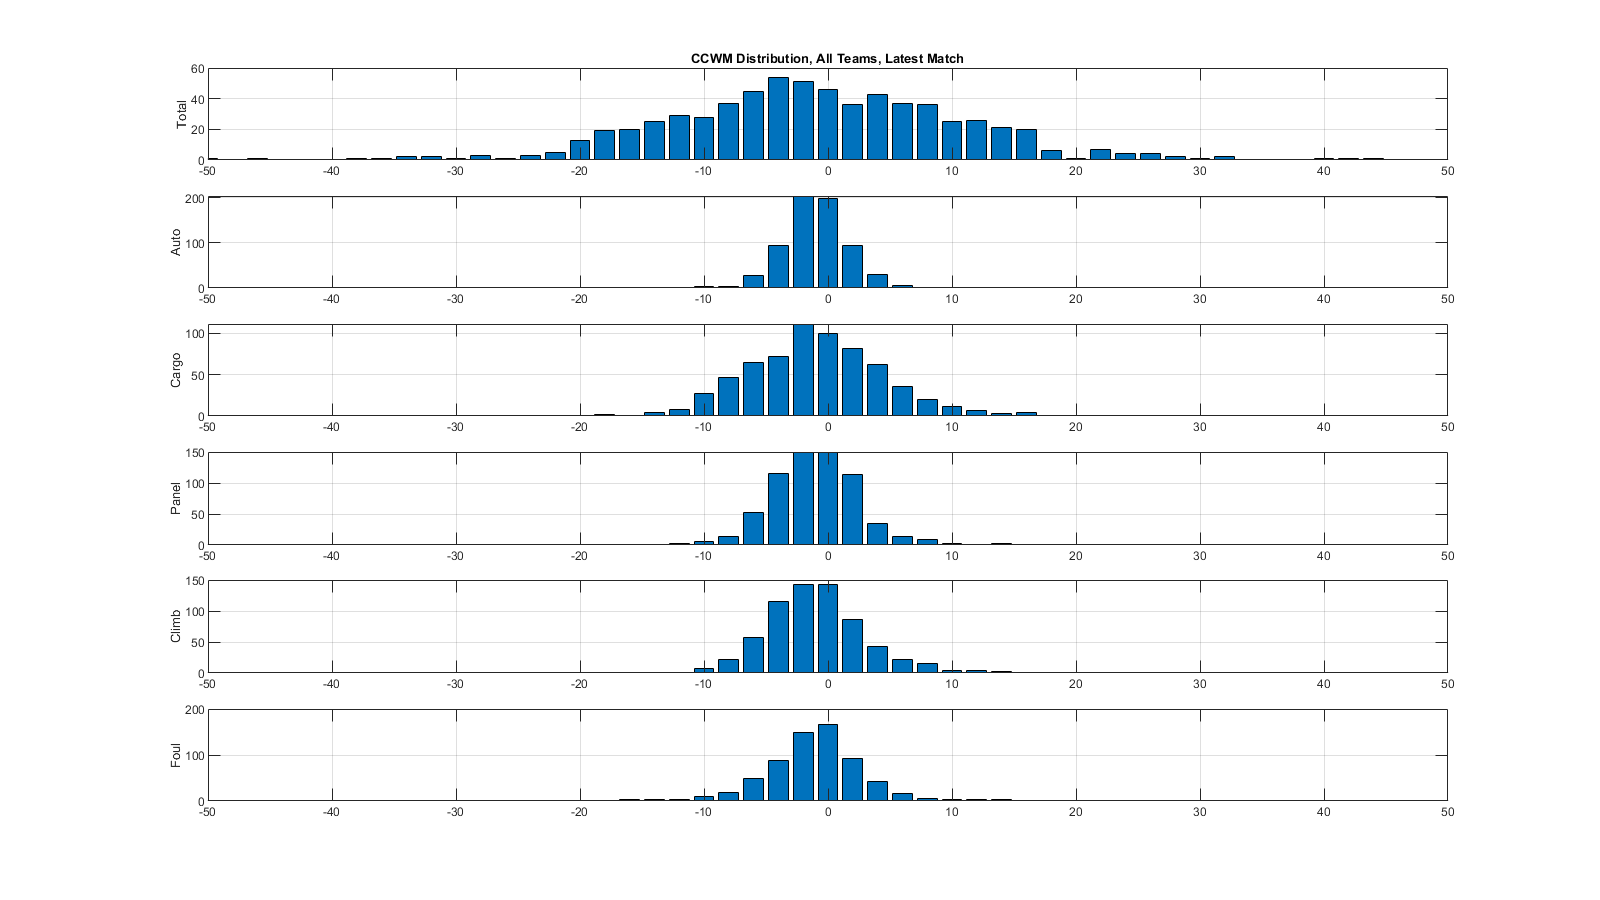
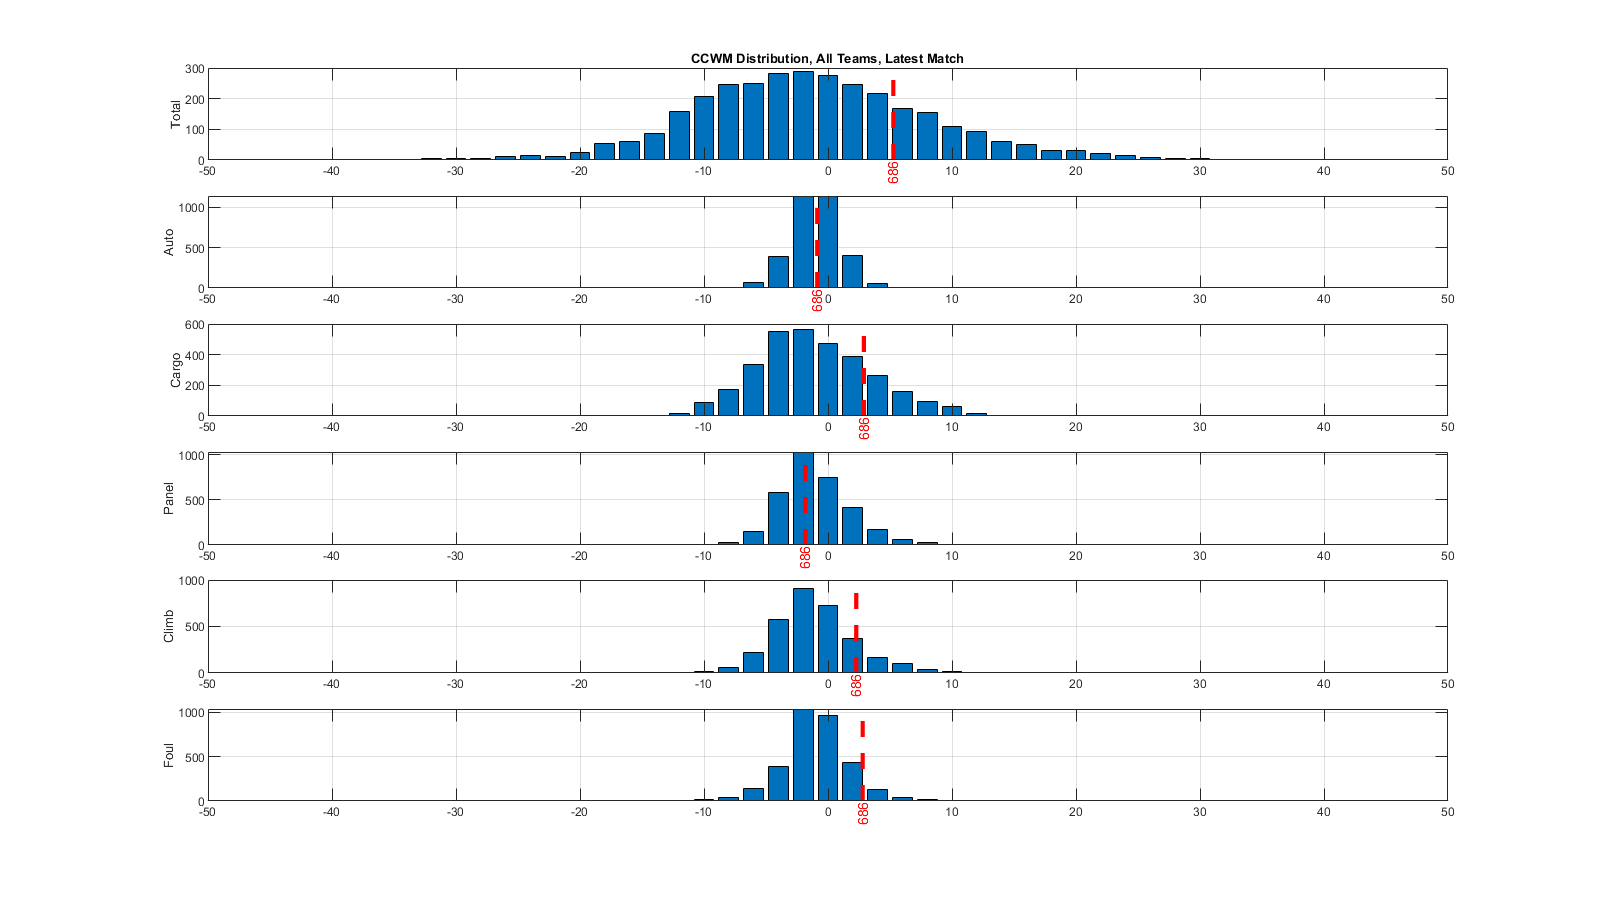
Fixed bug where only last 30 matches were used to calc OPR

diff --git a/TBA/2019/calc_event_team_stats.m b/TBA/2019/calc_event_team_stats.m
@@ -4,9 +4,9 @@ ccc;
 
 directory = 'data/week0';   event_name = '2019vahay';
 directory = 'data/week0';   event_name = '2019vagle';
-% directory = 'data/week1';   event_name = '2019mdbet';
-% directory = 'data/week2';   event_name = '2019mdowi';
-% directory = 'data/week2';   event_name = '2019vapor';
+directory = 'data/week1';   event_name = '2019mdbet';
+directory = 'data/week2';   event_name = '2019mdowi';
+directory = 'data/week2';   event_name = '2019vapor';
 % directory = 'data/week3';   event_name = '2019mdedg';
 % directory = 'data/week3';   event_name = '2019vagle';
 % directory = 'data/week5';   event_name = '2019chcmp';

diff --git a/TBA/2019/get_event_team_stats.m b/TBA/2019/get_event_team_stats.m
@@ -86,9 +86,12 @@ if ~isempty(data)
 
 end
 
-        Team_Matrix = Team_Matrix(2*30:end,:);
-        Score_For = Score_For(2*30:end,:);
-        Score_Against = Score_Against(2*30:end,:);
+%         Team_Matrix = Team_Matrix(2*30:end,:);
+%         Score_For = Score_For(2*30:end,:);
+%         Score_Against = Score_Against(2*30:end,:);
+%         Team_Matrix = Team_Matrix(1:2*55,:);
+%         Score_For = Score_For(1:2*55,:);
+%         Score_Against = Score_Against(1:2*55,:);
 
 % solve Team_Matrix*OPR = Score_For for OPR
 % solve Team_Matrix*DPR = Score_Against for DPR

diff --git a/TBA/2019/calc_all_team_stats.m b/TBA/2019/calc_all_team_stats.m
@@ -10,7 +10,7 @@ team_num = [];
 OPR = [];
 DPR = [];
 
-for week = 0:0
+for week = 0:3
     directory = sprintf('data/week%d', week);
     
     events = dir(sprintf('%s/*.csv', directory));

diff --git a/TBA/2019/calc_chs_team_stats.m b/TBA/2019/calc_chs_team_stats.m
@@ -10,7 +10,7 @@ team_num = [];
 OPR = [];
 DPR = [];
 
-for week = 0:0
+for week = 0:3
     directory = sprintf('data/week%d', week);
     
     events = dir(sprintf('%s/*.csv', directory));
